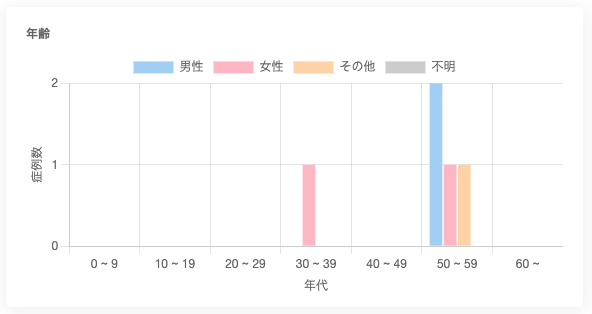
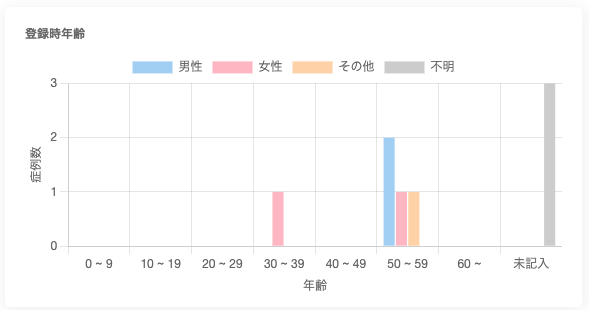
グラフの仕様修正

diff --git a/docs/stats/age.md b/docs/stats/age.md
@@ -7,7 +7,7 @@
 | ---- | ---- |
 | データ項目 | 年代（case_age）、症例数 |
 | データ形式 | 年齢はYMD表記（例: 30Y1M2D）、人数は正の整数 |
-| 年齢範囲 | グラフに表示する症例数の最大値は対象データに応じて動的に設定される。年齢は10歳区切り（例: 10-19, 20-29）で集計し、60代以降は一区切りとする |
+| 年齢範囲 | グラフに表示する症例数の最大値は対象データに応じて動的に設定される。年齢は10歳区切り（例: 10-19, 20-29）で集計し、60代以降は一区切りとする。データがFalsy（nullや空白）の場合未記入にカウントされる。 |
 
 ## グラフ仕様
 | 項目名 | 説明 |

diff --git a/docs/stats/group-name.md b/docs/stats/group-name.md
@@ -7,6 +7,7 @@
 | ---- | ---- |
 | データ項目 | グループ名（case_group）、症例数 |
 | データ形式 | グループ名は文字列、人数は正の整数 |
+| 未記入の場合 | グループ名が設定されたデータが一つもない場合、「未記入のグループ」として表示される |
 
 ## グラフ仕様
 | 項目名 | 説明 |
